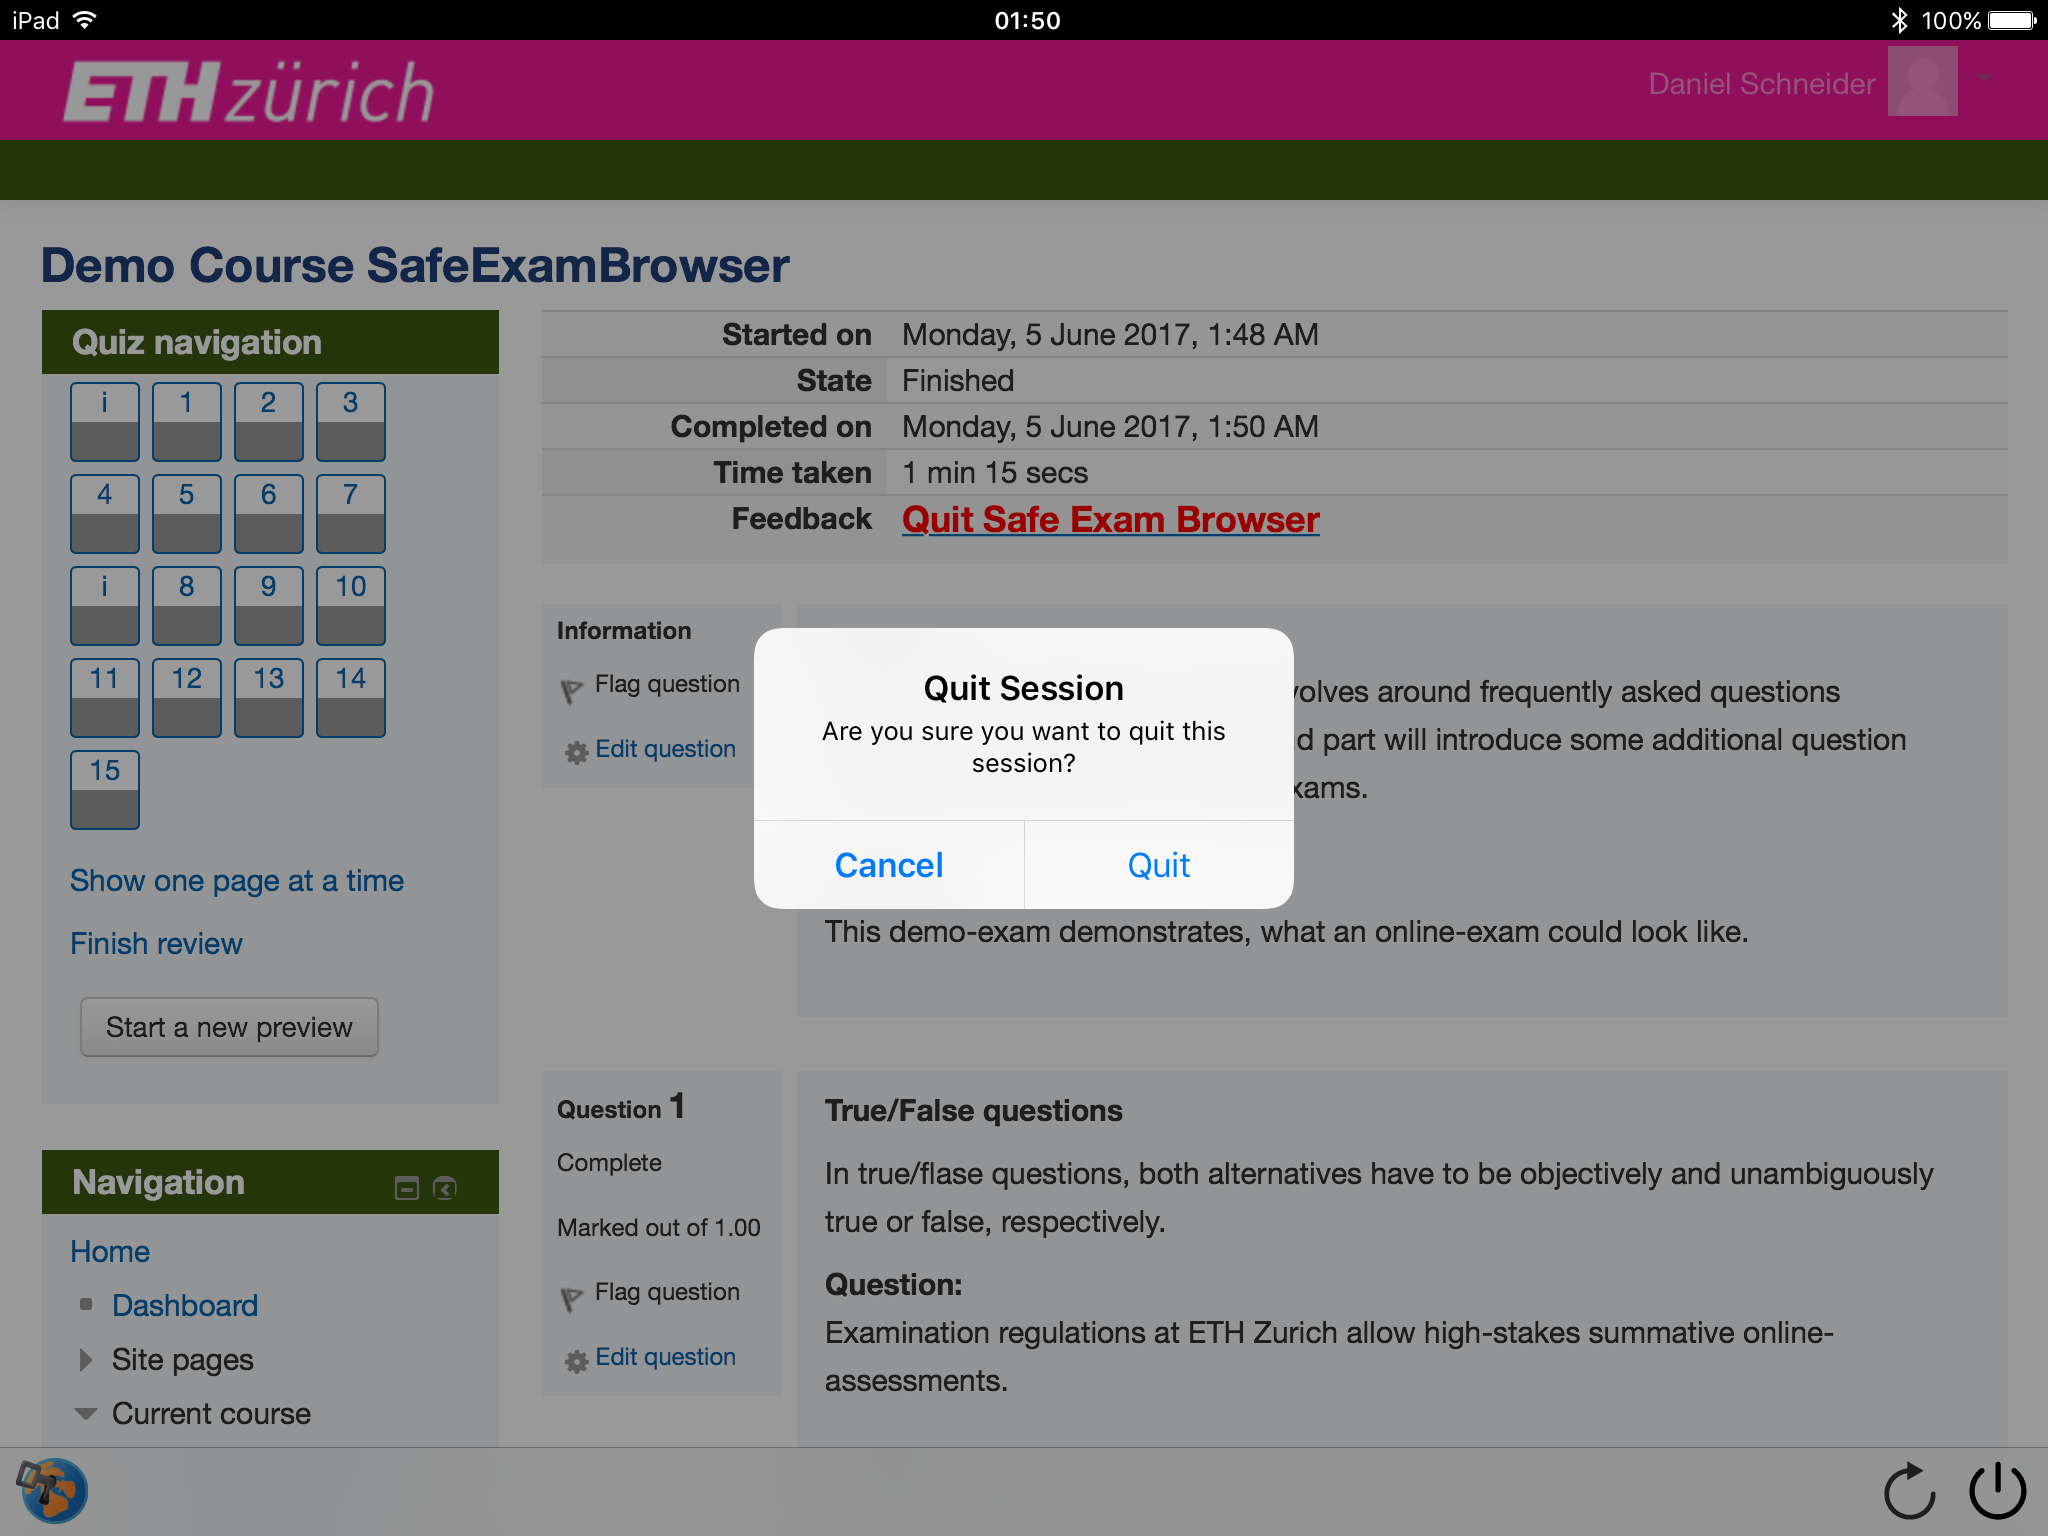
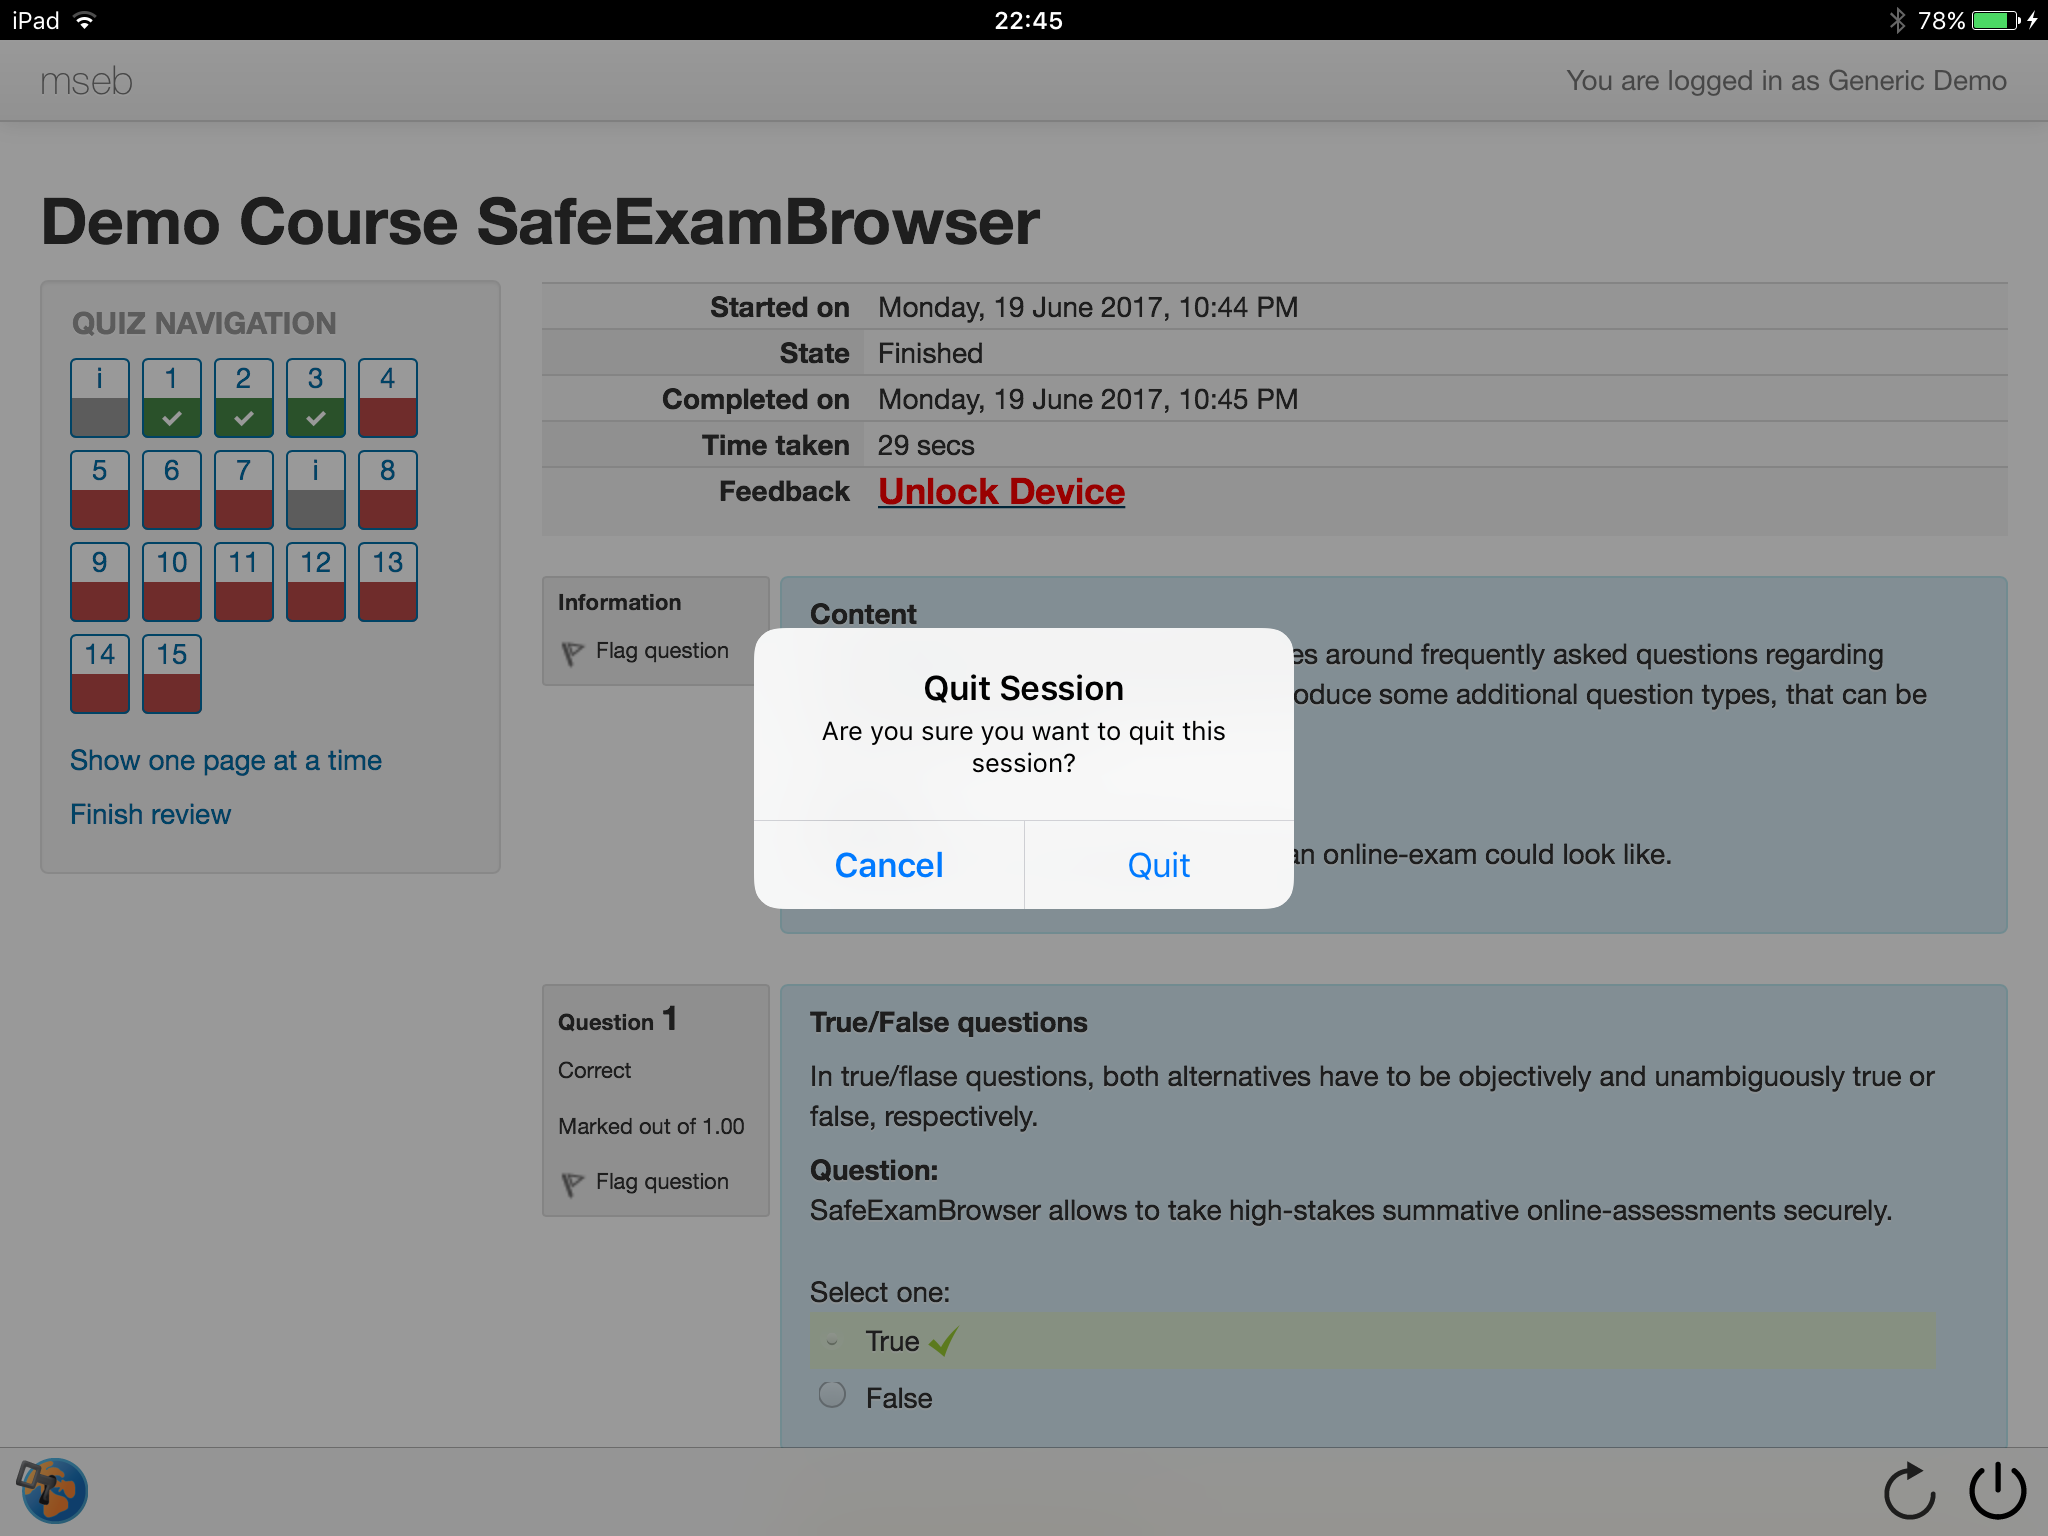
Updated tutorial with new test domain.

diff --git a/ios/ios_usermanual_en.html b/ios/ios_usermanual_en.html
@@ -421,8 +421,8 @@
           <img class="img-responsive" src="images/SEB_InitialConfigurationAssistant.png" />
  
           <ul>
-            <li><strong>Open an SEB exam or configuration link from Safari, Mail or a messenger app: </strong>To try this out, you can switch to Safari (as at this point SEB isn't yet running  in a single app mode) and open the <a href="https://seb.let.ethz.ch/exams/" target="_blank">demo exam portal page</a> there. If you now click one of the  links on this page, iOS will open the  SEB app (after confirming this in the alert Safari displays) and the Config File referred to by the config link will be opened in SEB. This is one way of starting SEB with an individual exam configuration, by opening an seb(s):// link from Safari/Mail or another app. This method is often being used in the macOS and Windows versions, SEB for iOS is compatible with this.</li>
-            <li><strong>Enter a URL of an institution which supports SEB:</strong> This is a new feature, called &quot;Automatic Client Configuration&quot;. An institution can place an SEB Config File at a specific path on their web server. SEB will search those predefined paths (there are three variations possible) when the main URL of that institution is typed in. You can try to enter <span class="quote">let.ethz.ch</span>, SEB will then be reconfigured to display the demo exam portal page mentioned above (this is for demonstration, for production you would set up Automatic Client Configuration to work with the top-level URL of your institution, so for example with &quot;ethz.ch&quot;).</li>
+            <li><strong>Open an SEB exam or configuration link from Safari, Mail or a messenger app: </strong>To try this out, you can switch to Safari (as at this point SEB isn't yet running  in a single app mode) and open the <a href="http://safeexambrowser.org/exams/" target="_blank">demo exam portal page</a> there. If you now click one of the  links on this page, iOS will open the  SEB app (after confirming this in the alert Safari displays) and the Config File referred to by the config link will be opened in SEB. This is one way of starting SEB with an individual exam configuration, by opening an seb(s):// link from Safari/Mail or another app. This method is often being used in the macOS and Windows versions, SEB for iOS is compatible with this.</li>
+            <li><strong>Enter a URL of an institution which supports SEB:</strong> This is a new feature, called &quot;Automatic Client Configuration&quot;. An institution can place an SEB Config File at a specific path on their web server. SEB will search those predefined paths (there are three variations possible) when the main URL of that institution is typed in. You can try to enter <span class="quote">safeexambrowser.github.io</span>, SEB will then be reconfigured to display the demo exam portal page mentioned above (this is for demonstration, usually you would set up Automatic Client Configuration to work with the top-level URL of your institution, so for example with &quot;myuniversity.edu&quot;).</li>
             <li><strong>Scan SEB configuration QR code:</strong> If you generate a QR code which contains an seb(s):// URL to an SEB Config File, then examinees can use the camera in their iOS device to scan the QR code and start exams (or configure the SEB app to show an exam portal page). You could for example print such a QR code onto some instruction sheet for the exam.</li>
             <li><strong>Administrators: Set up your exam:</strong> Tapping the <span class="quote">Edit Settings</span> button opens the built-in SEB settings user interface. There you can configure the SEB app and share those settings in an SEB configuration file. </li>
           </ul>
@@ -433,7 +433,7 @@
           </h4>
         
           <p>When you start SEB the first time, you can use the <span class="quote">Edit Settings</span> button in the Initial Configuration Assistant. If you already changed the configuration of SEB and it doesn't display the Initial Configuration Assistant anymore, you can  go to the Settings app, find SEB's setting options and enable either the <span class="quote">Allow Editing</span> or <span class="quote">Initiate Settings Reset</span> options. After returning to SEB, you'll have to enter the SEB Admin Password to edit settings or for settings being reset to its default values (then the Initial Configuration Assistant will be displayed again). If you forgot the SEB Admin Password, then you need to delete the SEB app  and re-install it.  </p>
-          <p>In the demo settings mentioned above the SEB Admin Password is &quot;seb&quot;. You can also change client settings of SEB for iOS by reconfiguring it with the link <a href="sebs://seb.let.ethz.ch/exams/ClientConfigTesting.seb">Configure Client for Administrators / SEB Testing</a>  on the <a href="https://seb.let.ethz.ch/exams/" target="_blank">demo portal page,</a> then in the left slider menu (tap SEB logo in the SEB dock at the bottom of the screen or swipe right from left display edge) you will find a command <span class="quote">Edit Settings</span>. The SEB Admin Password used in the demo settings is &quot;seb&quot;, the Quit Password &quot;quit&quot;.</p>
+          <p>In the demo settings mentioned above the SEB Admin Password is &quot;seb&quot;. You can also change client settings of SEB for iOS by reconfiguring it with the link <a href="seb://safeexambrowser.org/exams/ClientConfigTesting.seb">Configure Client for Administrators / SEB Testing</a>  on the <a href="http://safeexambrowser.org/exams/" target="_blank">demo portal page,</a> then in the left slider menu (tap SEB logo in the SEB dock at the bottom of the screen or swipe right from left display edge) you will find a command <span class="quote">Edit Settings</span>. The SEB Admin Password used in the demo settings is &quot;seb&quot;, the Quit Password &quot;quit&quot;.</p>
           <p>SEB is generally  customizable to a large extend, to allow  various  use cases and to be compatible to basically every web based examination system. But for the beginning, you often would only need to set the three options in the root settings pane (Start URL, Admin Password, Quit Password).  </p>
           <p>When closing in-app settings with the <span class="quote">Done</span> button,  then SEB reconfigures and restarts itself using those edited settings, and the web page  with the URL set in the <span class="quote">Start URL</span>  field (see below) is loaded.          </p>
           <h4 class="seb-section-header sebnavbar-link" id="GeneralPane">
